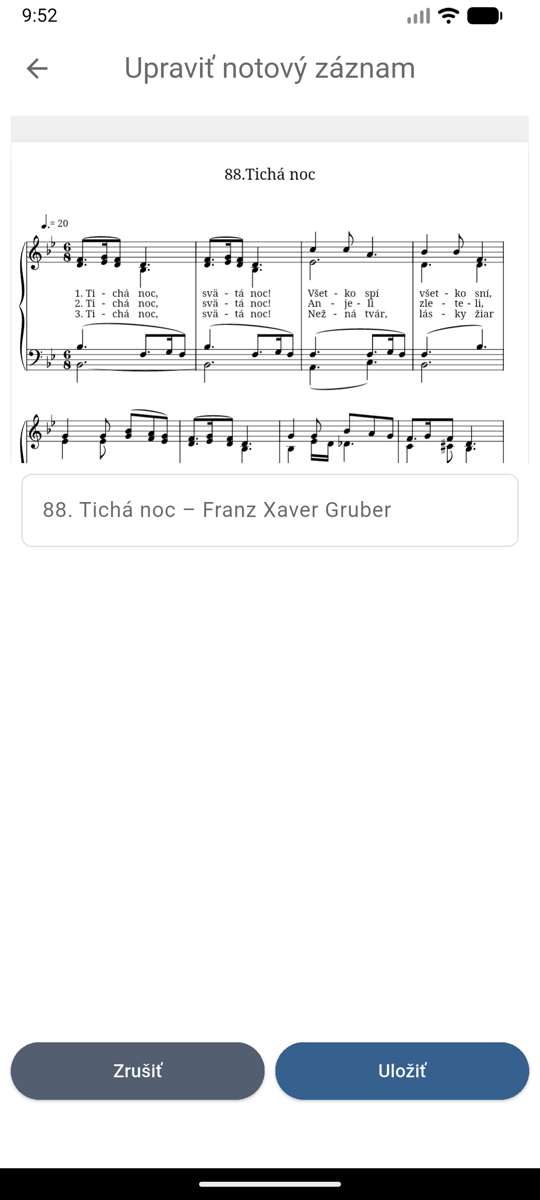
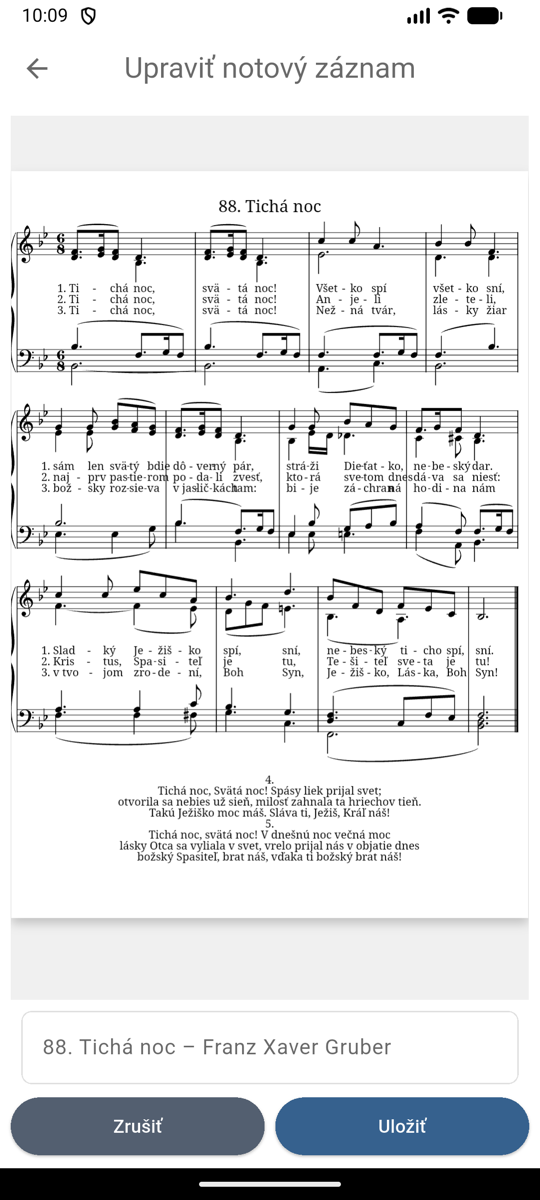
feat: let the music sheet preview fill the add/edit screen
The preview, name field and buttons were laid out in a fixed 2:3:1 ratio, which
gave the single-line name field half of the screen as blank space. The preview
is now the only flexible child; the field and buttons keep their natural height
and move above the keyboard while the preview shrinks.

Recaptured the two user guide screenshots of this screen and added the
changelog entries for this branch.

diff --git a/lib/features/add_edit_music_sheet/view/add_edit_music_sheet_view.dart b/lib/features/add_edit_music_sheet/view/add_edit_music_sheet_view.dart
@@ -22,9 +22,6 @@ class AddEditMusicSheetView extends HookWidget {
 
   @override
   Widget build(BuildContext context) {
-    const previewFlex = 2;
-    const inputFlex = 3;
-    const buttonsFlex = 1;
     const defaultPadding = 8.0;
 
     final musicSheetNameController = useTextEditingController();
@@ -83,8 +80,9 @@ class AddEditMusicSheetView extends HookWidget {
                 padding: const EdgeInsets.all(defaultPadding),
                 child: Column(
                   children: [
+                    // The preview takes all the space the name field and buttons leave; when the
+                    // keyboard opens the Scaffold shrinks the body and only the preview gets shorter.
                     Expanded(
-                      flex: previewFlex,
                       child: switch (state) {
                         InitMusicSheetState() => const CircularProgressIndicator(),
                         UploadMusicSheetState() =>
@@ -108,84 +106,78 @@ class AddEditMusicSheetView extends HookWidget {
                         ),
                       },
                     ),
-                    Expanded(
-                      flex: inputFlex,
-                      child: Padding(
-                        padding: const EdgeInsets.all(defaultPadding),
-                        child: TextField(
-                          controller: musicSheetNameController,
-                          decoration: InputDecoration(
-                            hintText: localizations.musicSheetName,
-                          ),
+                    Padding(
+                      padding: const EdgeInsets.all(defaultPadding),
+                      child: TextField(
+                        controller: musicSheetNameController,
+                        decoration: InputDecoration(
+                          hintText: localizations.musicSheetName,
                         ),
                       ),
                     ),
-                    Expanded(
-                      flex: buttonsFlex,
-                      child: Row(
-                        children: [
-                          Expanded(
-                            child: ElevatedButton(
-                              onPressed: () {
-                                showDiscardUploadedMusicSheetChangesDialog(context).then((shouldDiscardChanges) {
-                                  if (shouldDiscardChanges && context.mounted) {
-                                    resetMusicSheetCubitAndPop(context);
-                                  }
-                                });
-                              },
-                              style: theme.elevatedButtonTheme.style?.copyWith(
-                                backgroundColor: WidgetStateProperty.all(theme.colorScheme.secondary),
-                                foregroundColor: WidgetStateProperty.all(theme.colorScheme.onSecondary),
-                              ),
-                              child: Text(localizations.discard),
-                            ),
-                          ),
-                          const SizedBox(width: defaultPadding),
-                          Expanded(
-                            child: ElevatedButton(
-                              style: theme.elevatedButtonTheme.style,
-                              onPressed: () {
-                                // Don't allow actions while loading
-                                if (state.isLoading) return;
-
-                                switch (state) {
-                                  case InitMusicSheetState():
-                                    break;
-                                  case UploadMusicSheetState():
-                                    final user = context.read<AuthBloc>().state.user;
-                                    if (user != null) {
-                                      context.read<AddEditMusicSheetCubit>().uploadNewMusicSheet(
-                                        user: user,
-                                        file: state.file,
-                                        fileName: musicSheetNameController.text,
-                                        repositoryId: state.repositoryId,
-                                      );
-                                    }
-                                  case EditMusicSheetState():
-                                    context.read<AddEditMusicSheetCubit>().renameMusicSheetInPlaylist(
-                                      playlist: state.playlist,
-                                      musicSheet: state.musicSheet,
-                                      fileName: musicSheetNameController.text,
-                                    );
-                                  case AddMusicSheetToPlaylistState():
-                                    final playlistBloc = context.read<PlaylistBloc>();
-                                    final playlist = playlistBloc.state.playlist;
-                                    playlistBloc.add(
-                                      AddMusicSheetsToPlaylistEvent(
-                                        musicSheets: [
-                                          state.musicSheet.copyWith(fileName: musicSheetNameController.text),
-                                        ],
-                                        playlist: playlist,
-                                      ),
-                                    );
-                                    resetMusicSheetCubitAndShowPlaylist(context);
+                    Row(
+                      children: [
+                        Expanded(
+                          child: ElevatedButton(
+                            onPressed: () {
+                              showDiscardUploadedMusicSheetChangesDialog(context).then((shouldDiscardChanges) {
+                                if (shouldDiscardChanges && context.mounted) {
+                                  resetMusicSheetCubitAndPop(context);
                                 }
-                              },
-                              child: Text(localizations.save),
+                              });
+                            },
+                            style: theme.elevatedButtonTheme.style?.copyWith(
+                              backgroundColor: WidgetStateProperty.all(theme.colorScheme.secondary),
+                              foregroundColor: WidgetStateProperty.all(theme.colorScheme.onSecondary),
                             ),
+                            child: Text(localizations.discard),
                           ),
-                        ],
-                      ),
+                        ),
+                        const SizedBox(width: defaultPadding),
+                        Expanded(
+                          child: ElevatedButton(
+                            style: theme.elevatedButtonTheme.style,
+                            onPressed: () {
+                              // Don't allow actions while loading
+                              if (state.isLoading) return;
+
+                              switch (state) {
+                                case InitMusicSheetState():
+                                  break;
+                                case UploadMusicSheetState():
+                                  final user = context.read<AuthBloc>().state.user;
+                                  if (user != null) {
+                                    context.read<AddEditMusicSheetCubit>().uploadNewMusicSheet(
+                                      user: user,
+                                      file: state.file,
+                                      fileName: musicSheetNameController.text,
+                                      repositoryId: state.repositoryId,
+                                    );
+                                  }
+                                case EditMusicSheetState():
+                                  context.read<AddEditMusicSheetCubit>().renameMusicSheetInPlaylist(
+                                    playlist: state.playlist,
+                                    musicSheet: state.musicSheet,
+                                    fileName: musicSheetNameController.text,
+                                  );
+                                case AddMusicSheetToPlaylistState():
+                                  final playlistBloc = context.read<PlaylistBloc>();
+                                  final playlist = playlistBloc.state.playlist;
+                                  playlistBloc.add(
+                                    AddMusicSheetsToPlaylistEvent(
+                                      musicSheets: [
+                                        state.musicSheet.copyWith(fileName: musicSheetNameController.text),
+                                      ],
+                                      playlist: playlist,
+                                    ),
+                                  );
+                                  resetMusicSheetCubitAndShowPlaylist(context);
+                              }
+                            },
+                            child: Text(localizations.save),
+                          ),
+                        ),
+                      ],
                     ),
                   ],
                 ),

diff --git a/test/features/add_edit_music_sheet/add_edit_music_sheet_view_test.dart b/test/features/add_edit_music_sheet/add_edit_music_sheet_view_test.dart
@@ -269,6 +269,42 @@ void main() {
       expect(find.text('No file data available'), findsNothing);
     });
 
+    testWidgets('gives the preview all the space the name field and buttons leave', (tester) async {
+      final mockFile = MusicSheetFile(
+        file: PlatformFile(name: 'test.png', size: validPngBytes.length, bytes: validPngBytes),
+        mediaType: MediaType.image,
+      );
+      final cubit =
+          AddEditMusicSheetViewTest(
+            firestoreRepository: mockFirestoreRepository,
+            storageRepository: mockStorageRepository,
+          )..setStateForTest(
+            UploadMusicSheetState(file: mockFile, repositoryId: 'repo-1'),
+          );
+      addTearDown(cubit.close);
+
+      await tester.pumpWidget(
+        BlocProvider<AddEditMusicSheetCubit>.value(
+          value: cubit,
+          child: Provider<CacheManager>.value(
+            value: DefaultCacheManager(),
+            child: const MaterialApp(
+              localizationsDelegates: AppLocalizations.localizationsDelegates,
+              supportedLocales: AppLocalizations.supportedLocales,
+              home: AddEditMusicSheetView(),
+            ),
+          ),
+        ),
+      );
+
+      final preview = find.byType(MusicSheetView);
+      final screenHeight = tester.getSize(find.byType(Scaffold)).height;
+      // The preview is the only flexible child: it ends right above the padded name field
+      // and takes more than half of the screen, rather than a fixed third of it.
+      expect(tester.getSize(preview).height, greaterThan(screenHeight / 2));
+      expect(tester.getBottomLeft(preview).dy, closeTo(tester.getTopLeft(find.byType(TextField)).dy - 8, 1));
+    });
+
     group('AddMusicSheetToPlaylistState', () {
       late MockPlaylistBloc mockPlaylistBloc;
       late MockCacheManager mockCacheManager;

diff --git a/CHANGELOG.md b/CHANGELOG.md
@@ -22,6 +22,7 @@ and this project adheres to [Semantic Versioning](https://semver.org/spec/v2.0.0
 - Počet nôt v repozitári sa načítava len raz namiesto pri každom prekreslení zoznamu repozitárov
 - Zoznam skladieb sa už neprekresľuje dvakrát pri každej zmene (napr. pri presune nôt)
 - Zlepšenie logovania
+- Obrazovka pridania notového záznamu (pridanie, premenovanie) využíva pre náhľad nôt celú voľnú plochu namiesto tretiny obrazovky
 
 ### Deprecated
 
@@ -40,6 +41,8 @@ and this project adheres to [Semantic Versioning](https://semver.org/spec/v2.0.0
 - Opravená chyba pri odchode z PDF noty počas vykresľovania strany (Android)
 - Menej falošných chýb hlásených na pozadí (výpadok siete, iOS, vymazaný zoznam skladieb)
 - Transpozícia digitálnych nôt nanovo prispôsobí zväčšenie oboma smermi – po transpozícii nahor a späť už noty neostávajú menšie
+- Pri nahrávaní vlastného MusicXML súboru sa pred uložením zobrazí náhľad nôt namiesto chybného hlásenia „Súbor je poškodený“
+- Na iOS sa dajú MusicXML súbory vybrať pri nahrávaní vlastných nôt (predtým boli v okne výberu súboru neaktívne)
 
 ### Security
 
